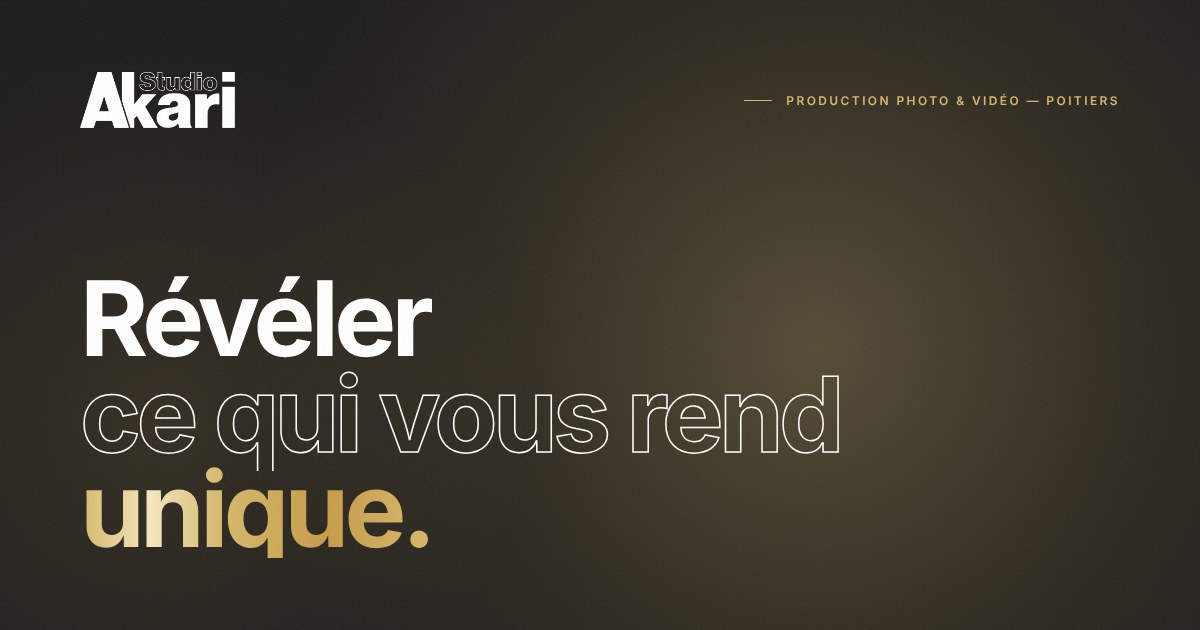
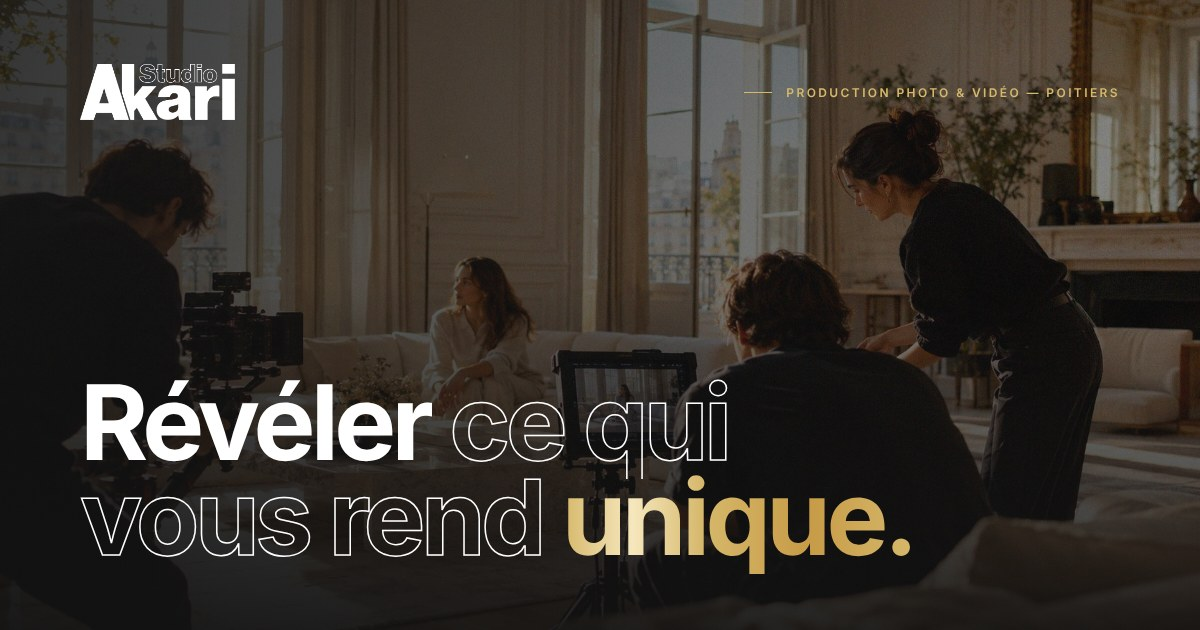
Photo de tournage en plein écran et 5 nouvelles photos dans la galerie
- Accueil : la photo de l'équipe de tournage passe en fond plein écran
  derrière « Révéler ce qui vous rend unique » (variante « Plein écran »
  de la maquette), avec voile sombre pour la lisibilité, carte vitrée
  et indicateur « Défiler » ; cadrage dédié au mobile
- Galerie Clients : salon (Immobilier), portrait recadré (Portrait),
  vue aérienne (Drone), film d'entreprise (Entreprise), réception
  (Événementiel) ; crédits Unsplash retirés
- Image de partage réseaux sociaux refaite avec la photo de tournage
- README : emplacement de chaque photo

Claude-Session: https://claude.ai/code/session_01Rce9ABYD3shJkcZ2GECvxT

diff --git a/clients.html b/clients.html
@@ -227,48 +227,46 @@
       <div class="container pad-bottom gallery">
         <figure class="media gallery__item gallery__item--wide gallery__item--tall" data-cat="immo" data-reveal="clip" data-delay="0">
           <div class="scene" data-scene="window" data-flip aria-hidden="true"></div>
-          <img src="https://images.unsplash.com/photo-1635108199650-8115b597e283?auto=format&amp;fit=crop&amp;w=1600&amp;q=75"
-               srcset="https://images.unsplash.com/photo-1635108199650-8115b597e283?auto=format&amp;fit=crop&amp;w=800&amp;q=75 800w,
-                       https://images.unsplash.com/photo-1635108199650-8115b597e283?auto=format&amp;fit=crop&amp;w=1600&amp;q=75 1600w"
-               sizes="(min-width: 1280px) 750px, 100vw" alt="Réalisation immobilier : intérieur mis en valeur" loading="lazy" decoding="async">
+          <img src="assets/img/photos/interieur-salon-1200.jpg"
+               srcset="assets/img/photos/interieur-salon-800.jpg 800w,
+                       assets/img/photos/interieur-salon-1200.jpg 1200w,
+                       assets/img/photos/interieur-salon-1672.jpg 1672w"
+               sizes="(min-width: 1280px) 750px, 100vw" width="1672" height="941" alt="Salon haussmannien baigné de lumière : canapé d'angle, table basse en marbre et cheminée" loading="lazy" decoding="async" style="--pos: 50% 60%">
           <span class="tag">Immobilier</span>
-          <figcaption class="credit">Photo de <a href="https://unsplash.com/@3dottawa?utm_source=studio_akari&amp;utm_medium=referral" target="_blank" rel="noopener">Point3D Commercial Imaging Ltd.</a> sur <a href="https://unsplash.com/?utm_source=studio_akari&amp;utm_medium=referral" target="_blank" rel="noopener">Unsplash</a></figcaption>
         </figure>
         <figure class="media gallery__item gallery__item--tall" data-cat="ent" data-reveal="clip" data-delay="150">
           <div class="scene" data-scene="rim" aria-hidden="true"></div>
-          <img src="https://images.unsplash.com/photo-1573497019940-1c28c88b4f3e?auto=format&amp;fit=crop&amp;w=1200&amp;q=75"
-               srcset="https://images.unsplash.com/photo-1573497019940-1c28c88b4f3e?auto=format&amp;fit=crop&amp;w=600&amp;q=75 600w,
-                       https://images.unsplash.com/photo-1573497019940-1c28c88b4f3e?auto=format&amp;fit=crop&amp;w=1200&amp;q=75 1200w"
-               sizes="(min-width: 1280px) 375px, 100vw" alt="Réalisation : portrait corporate" loading="lazy" decoding="async">
+          <img src="assets/img/photos/portrait-bureau-706.jpg"
+               srcset="assets/img/photos/portrait-bureau-600.jpg 600w,
+                       assets/img/photos/portrait-bureau-706.jpg 706w"
+               sizes="(min-width: 1280px) 375px, 100vw" width="706" height="941" alt="Portrait professionnel d'une femme en tailleur blanc, accoudée à son bureau" loading="lazy" decoding="async" style="--pos: 50% 25%">
           <span class="tag">Portrait</span>
-          <figcaption class="credit">Photo de <a href="https://unsplash.com/@wocintechchat?utm_source=studio_akari&amp;utm_medium=referral" target="_blank" rel="noopener">Christina @ wocintechchat.com M</a> sur <a href="https://unsplash.com/?utm_source=studio_akari&amp;utm_medium=referral" target="_blank" rel="noopener">Unsplash</a></figcaption>
         </figure>
         <figure class="media gallery__item gallery__item--short" data-cat="immo" data-reveal="clip" data-delay="0">
           <div class="scene" data-scene="aerial" aria-hidden="true"></div>
-          <img src="https://images.unsplash.com/photo-1525345819937-fffe0634612e?auto=format&amp;fit=crop&amp;w=1200&amp;q=75"
-               srcset="https://images.unsplash.com/photo-1525345819937-fffe0634612e?auto=format&amp;fit=crop&amp;w=600&amp;q=75 600w,
-                       https://images.unsplash.com/photo-1525345819937-fffe0634612e?auto=format&amp;fit=crop&amp;w=1200&amp;q=75 1200w"
-               sizes="(min-width: 1280px) 375px, 100vw" alt="Réalisation : vue aérienne par drone" loading="lazy" decoding="async">
+          <img src="assets/img/photos/drone-demeure-1200.jpg"
+               srcset="assets/img/photos/drone-demeure-800.jpg 800w,
+                       assets/img/photos/drone-demeure-1200.jpg 1200w,
+                       assets/img/photos/drone-demeure-1672.jpg 1672w"
+               sizes="(min-width: 1280px) 720px, 150vw" width="1672" height="941" alt="Vue aérienne par drone d'une demeure de prestige et de son jardin au coucher du soleil" loading="lazy" decoding="async" style="--pos: 92% 50%">
           <span class="tag">Drone</span>
-          <figcaption class="credit">Photo de <a href="https://unsplash.com/@chuttersnap?utm_source=studio_akari&amp;utm_medium=referral" target="_blank" rel="noopener">CHUTTERSNAP</a> sur <a href="https://unsplash.com/?utm_source=studio_akari&amp;utm_medium=referral" target="_blank" rel="noopener">Unsplash</a></figcaption>
         </figure>
         <figure class="media gallery__item gallery__item--wide gallery__item--short" data-cat="ent" data-reveal="clip" data-delay="150">
           <div class="scene" data-scene="flare" data-letterbox aria-hidden="true"></div>
-          <img src="https://images.unsplash.com/photo-1637249786345-a064129dd0d2?auto=format&amp;fit=crop&amp;w=1600&amp;q=75"
-               srcset="https://images.unsplash.com/photo-1637249786345-a064129dd0d2?auto=format&amp;fit=crop&amp;w=800&amp;q=75 800w,
-                       https://images.unsplash.com/photo-1637249786345-a064129dd0d2?auto=format&amp;fit=crop&amp;w=1600&amp;q=75 1600w"
-               sizes="(min-width: 1280px) 750px, 100vw" alt="Réalisation : film d'entreprise" loading="lazy" decoding="async">
+          <img src="assets/img/photos/film-entreprise-1200.jpg"
+               srcset="assets/img/photos/film-entreprise-800.jpg 800w,
+                       assets/img/photos/film-entreprise-1200.jpg 1200w,
+                       assets/img/photos/film-entreprise-1672.jpg 1672w"
+               sizes="(min-width: 1280px) 750px, 100vw" width="1672" height="941" alt="Tournage d'un film d'entreprise : deux caméras filment une séance de travail autour d'une grande table" loading="lazy" decoding="async">
           <span class="tag">Entreprise</span>
-          <figcaption class="credit">Photo de <a href="https://unsplash.com/@jakobowens1?utm_source=studio_akari&amp;utm_medium=referral" target="_blank" rel="noopener">Jakob Owens</a> sur <a href="https://unsplash.com/?utm_source=studio_akari&amp;utm_medium=referral" target="_blank" rel="noopener">Unsplash</a></figcaption>
         </figure>
         <figure class="media gallery__item gallery__item--half gallery__item--short" data-cat="ent" data-reveal="clip" data-delay="0">
           <div class="scene" data-scene="bokeh" data-seed="29" data-n="16" aria-hidden="true"></div>
-          <img src="https://images.unsplash.com/photo-1664817559603-3831ba34c112?auto=format&amp;fit=crop&amp;w=1400&amp;q=75"
-               srcset="https://images.unsplash.com/photo-1664817559603-3831ba34c112?auto=format&amp;fit=crop&amp;w=700&amp;q=75 700w,
-                       https://images.unsplash.com/photo-1664817559603-3831ba34c112?auto=format&amp;fit=crop&amp;w=1400&amp;q=75 1400w"
-               sizes="(min-width: 1280px) 560px, 100vw" alt="Réalisation : événement" loading="lazy" decoding="async">
+          <img src="assets/img/photos/evenement-reception-1200.jpg"
+               srcset="assets/img/photos/evenement-reception-800.jpg 800w,
+                       assets/img/photos/evenement-reception-1200.jpg 1200w"
+               sizes="(min-width: 1280px) 560px, 100vw" width="1672" height="941" alt="Captation vidéo d'une réception dans un salon d'apparat" loading="lazy" decoding="async" style="--pos: 40% 50%">
           <span class="tag">Événementiel</span>
-          <figcaption class="credit">Photo de <a href="https://unsplash.com/@isaacmacdonald?utm_source=studio_akari&amp;utm_medium=referral" target="_blank" rel="noopener">isaac macdonald</a> sur <a href="https://unsplash.com/?utm_source=studio_akari&amp;utm_medium=referral" target="_blank" rel="noopener">Unsplash</a></figcaption>
         </figure>
         <figure class="media gallery__item gallery__item--half gallery__item--short" data-cat="ent" data-reveal="clip" data-delay="150">
           <div class="scene" data-scene="spot" aria-hidden="true"></div>

diff --git a/index.html b/index.html
@@ -81,37 +81,37 @@
   </header>
 
   <main id="contenu">
-    <!-- 01 Accueil -->
-    <section class="hero" data-spotlight>
-      <div class="glows glows--hero" aria-hidden="true"><span></span><span></span></div>
+    <!-- 01 Accueil : photo plein écran derrière le titre -->
+    <section class="hero hero--full" data-spotlight>
+      <figure class="media hero__bg">
+        <div class="scene" data-scene="beam" aria-hidden="true"></div>
+        <img src="assets/img/photos/tournage-equipe-1200.jpg"
+             srcset="assets/img/photos/tournage-equipe-800.jpg 800w,
+                     assets/img/photos/tournage-equipe-1200.jpg 1200w,
+                     assets/img/photos/tournage-equipe-1672.jpg 1672w"
+             sizes="(max-aspect-ratio: 4/3) 1672px, 100vw" width="1672" height="941" alt="Équipe de tournage filmant une scène dans un appartement haussmannien baigné de lumière" fetchpriority="high" style="--pos: 45% 40%; --pos-sm: 38% 50%">
+      </figure>
       <div class="spotlight" aria-hidden="true"></div>
-      <div class="container hero__inner">
-        <div class="hero__top" data-reveal="fade">
-          <span class="eyebrow"><span class="eyebrow-line" data-reveal="line" data-delay="200"></span>Production photo &amp; vidéo</span>
-          <span class="hero__area">Poitiers et ses alentours</span>
-        </div>
-        <h1 class="display display--hero">
-          <span class="line"><span data-reveal="rise" data-delay="120">Révéler</span></span>
-          <span class="line"><span class="outline" data-reveal="rise" data-delay="240">ce qui vous rend</span></span>
-          <span class="line"><span class="shimmer" data-reveal="rise" data-delay="360">unique.</span></span>
+      <div class="hero__shade" aria-hidden="true"></div>
+      <div class="container hero__content">
+        <div class="eyebrow hero__eyebrow" data-reveal="fade"><span class="eyebrow-line" data-reveal="line" data-delay="200"></span>Production photo &amp; vidéo — Poitiers</div>
+        <h1 class="display display--full">
+          <span class="line"><span data-reveal="rise" data-delay="120">Révéler <span class="outline">ce qui</span></span></span>
+          <span class="line"><span data-reveal="rise" data-delay="260"><span class="outline">vous rend</span> <span class="shimmer">unique.</span></span></span>
         </h1>
-        <div class="head-foot">
-          <p class="lead hero__lead" data-reveal="up" data-delay="520">Studio Akari conçoit et réalise des photos et des vidéos professionnelles pour les agents immobiliers, les PME et les entreprises de tous secteurs, à Poitiers et dans ses alentours.</p>
-          <div class="btn-row" data-reveal="up" data-delay="640">
-            <a class="btn btn--gold" href="formules.html#contact">Demander un devis</a>
-            <a class="btn btn--ghost" href="#prestations">Nos prestations</a>
+        <div class="hero__row">
+          <div class="scroll-cue" data-reveal="fade" data-delay="900" aria-hidden="true">
+            <span class="scroll-cue__track"><span class="scroll-cue__bar"></span></span>
+            <span>Défiler</span>
+          </div>
+          <div class="hero__card" data-reveal="up" data-delay="520">
+            <p>Studio Akari conçoit et réalise des photos et des vidéos professionnelles pour les agents immobiliers, les PME et les entreprises de tous secteurs, à Poitiers et dans ses alentours.</p>
+            <div class="btn-row">
+              <a class="btn btn--gold" href="formules.html#contact">Demander un devis</a>
+              <a class="btn btn--ghost" href="#prestations">Nos prestations</a>
+            </div>
           </div>
         </div>
-      </div>
-      <div class="container hero__media">
-        <figure class="media media--hero" data-reveal="clip" data-delay="300">
-          <div class="scene" data-scene="beam" aria-hidden="true"></div>
-          <img src="assets/img/photos/tournage-equipe-1200.jpg"
-               srcset="assets/img/photos/tournage-equipe-800.jpg 800w,
-                       assets/img/photos/tournage-equipe-1200.jpg 1200w,
-                       assets/img/photos/tournage-equipe-1672.jpg 1672w"
-               sizes="(min-width: 1280px) 1136px, 100vw" width="1672" height="941" alt="Équipe de tournage filmant une scène dans un appartement haussmannien baigné de lumière" fetchpriority="high" style="--pos: 50% 40%">
-        </figure>
       </div>
     </section>
 

diff --git a/assets/css/style.css b/assets/css/style.css
@@ -309,7 +309,6 @@ a:hover { color: var(--gold); }
   font-family: var(--font-display);
   font-weight: 700;
 }
-.display--hero { font-size: clamp(56px, 9.6vw, 152px); line-height: 0.92; letter-spacing: -0.045em; }
 .display--page { font-size: clamp(48px, 7vw, 112px); line-height: 0.94; letter-spacing: -0.045em; }
 .display--section { font-size: clamp(44px, 5.8vw, 88px); line-height: 0.96; letter-spacing: -0.04em; }
 
@@ -482,6 +481,10 @@ a:hover { color: var(--gold); }
   transition: opacity .6s ease;
 }
 .js .media > img:not(.is-loaded) { opacity: 0; }
+/* Cadrage propre aux petits écrans : --pos-sm dans l'attribut style de l'image */
+@media (max-width: 699.98px) {
+  .media > img { object-position: var(--pos-sm, var(--pos, 50% 50%)); }
+}
 /* Le crédit n'apparaît qu'avec la photo qu'il attribue */
 .js .media > img:not(.is-loaded) ~ .credit { display: none; }
 .media > .scene { position: absolute; inset: 0; }
@@ -545,27 +548,81 @@ a:hover { color: var(--gold); }
   align-items: end;
 }
 
-/* ---------- Accueil : hero ---------- */
+/* ---------- Accueil : hero plein écran ---------- */
 
 .hero { position: relative; overflow: hidden; border-bottom: 1px solid var(--line); }
-.hero__inner { padding-top: clamp(72px, 8vw, 120px); padding-bottom: clamp(48px, 5vw, 72px); }
-.hero__top {
+.hero--full {
+  min-height: max(660px, calc(100vh - var(--header-h)));
+  min-height: max(660px, calc(100svh - var(--header-h)));
   display: flex;
-  justify-content: space-between;
-  flex-wrap: wrap;
-  gap: 12px 24px;
-  font-family: var(--font-display);
-  font-size: 12px;
-  font-weight: 600;
-  letter-spacing: 0.2em;
-  text-transform: uppercase;
-  margin-bottom: clamp(40px, 5vw, 64px);
+  align-items: flex-end;
+  background: var(--ink-deep);
 }
-.hero__area { color: var(--muted); }
-.hero__lead { max-width: 540px; }
+.hero__bg { position: absolute; inset: 0; background: var(--ink-deep); }
+
+/* Assombrit la photo pour garder le titre lisible (texte aligné à gauche, bas de page plus dense) */
+.hero__shade {
+  position: absolute;
+  inset: 0;
+  pointer-events: none;
+  background:
+    linear-gradient(90deg, rgba(18, 18, 18, 0.6) 0%, rgba(18, 18, 18, 0.2) 55%, rgba(18, 18, 18, 0) 100%),
+    linear-gradient(180deg, rgba(18, 18, 18, 0.35) 0%, rgba(18, 18, 18, 0.45) 45%, rgba(18, 18, 18, 0.94) 100%);
+}
+
+.hero__content {
+  width: 100%;
+  padding-top: 160px;
+  padding-bottom: clamp(40px, 5vw, 64px);
+  pointer-events: none;
+}
+.hero__eyebrow { margin-bottom: 28px; }
+.display--full { font-size: clamp(52px, 8.6vw, 136px); line-height: 0.92; letter-spacing: -0.045em; }
+
+.hero__row {
+  margin-top: clamp(40px, 5vw, 64px);
+  display: flex;
+  flex-wrap: wrap;
+  justify-content: space-between;
+  align-items: flex-end;
+  gap: 32px;
+}
+
+.scroll-cue {
+  display: flex;
+  align-items: center;
+  gap: 14px;
+  font-family: var(--font-display);
+  font-size: 11px;
+  font-weight: 600;
+  letter-spacing: 0.18em;
+  text-transform: uppercase;
+  color: var(--muted);
+}
+.scroll-cue__track { position: relative; width: 1px; height: 56px; background: rgba(255, 255, 255, 0.2); overflow: hidden; }
+.scroll-cue__bar {
+  position: absolute;
+  left: 0; top: 0;
+  width: 1px; height: 50%;
+  background: var(--gold);
+  animation: akariScrollcue 2.2s cubic-bezier(.6, 0, .2, 1) infinite;
+}
+@keyframes akariScrollcue { from { transform: translateY(-100%); } to { transform: translateY(200%); } }
+
+.hero__card {
+  pointer-events: auto;
+  flex: 0 1 560px;
+  padding: clamp(28px, 3.2vw, 44px);
+  background: rgba(20, 20, 20, 0.35);
+  -webkit-backdrop-filter: blur(20px) saturate(140%);
+  backdrop-filter: blur(20px) saturate(140%);
+  border: 1px solid rgba(255, 255, 255, 0.12);
+}
+.hero__card p { margin: 0; font-size: clamp(17px, 1.35vw, 19px); line-height: 1.65; color: #E4DFD6; text-wrap: pretty; }
+.hero__card .btn-row { margin-top: 24px; }
+
+/* Marge basse des bandeaux image pleine largeur (page Clients) */
 .hero__media { padding-bottom: clamp(72px, 8vw, 120px); }
-/* largeur explicite : sans elle, la hauteur minimale élargit l'image au-delà de l'écran sur mobile */
-.media--hero { width: 100%; aspect-ratio: 21 / 9; min-height: 260px; background: var(--ink-deep); }
 
 /* ---------- Bandeau défilant ---------- */
 

diff --git a/README.md b/README.md
@@ -33,7 +33,7 @@ Le site est prêt à être mis en ligne : mentions légales complètes (d'après
 
 Plus tard, quand vous le souhaiterez :
 
-- remplacer les six photos d'illustration Unsplash de la galerie par vos réalisations ;
+- remplacer la dernière photo d'illustration Unsplash (galerie, « Produit ») par une réalisation ;
 - ajouter vos réseaux sociaux dans le pied de page (une colonne « Suivre » est prévue par la maquette) ;
 - afficher des tarifs (aujourd'hui toutes les offres sont « Sur devis »).
 
@@ -99,13 +99,18 @@ Les photos de Studio Akari sont dans `assets/img/photos/`, déclinées en plusie
 
 | Emplacement | Fichiers |
 | --- | --- |
-| Accueil — grande image sous le titre | `tournage-equipe-*.jpg` |
+| Accueil — photo plein écran derrière « Révéler ce qui vous rend unique » | `tournage-equipe-*.jpg` |
 | Accueil — « Le studio » (format portrait) | `coulisses-preparation-*.jpg` |
 | Accueil — carte « Production vidéo » | `tournage-interview-*.jpg` |
 | Accueil — carte « Reportage photo » | `reportage-interieur-*.jpg` |
 | Clients — bandeau « L'immobilier, notre terrain d'expertise » | `presentation-clients-*.jpg` |
+| Clients — galerie « Immobilier » | `interieur-salon-*.jpg` |
+| Clients — galerie « Portrait » | `portrait-bureau-*.jpg` |
+| Clients — galerie « Drone » | `drone-demeure-*.jpg` |
+| Clients — galerie « Entreprise » | `film-entreprise-*.jpg` |
+| Clients — galerie « Événementiel » | `evenement-reception-*.jpg` |
 
-Les six images de la galerie « Réalisations » (page Clients) sont encore des illustrations Unsplash, avec le nom de leur auteur affiché en bas à gauche.
+La dernière image de la galerie (« Produit ») est encore une illustration Unsplash, avec le nom de son auteur affiché en bas à gauche.
 
 Pour changer une photo :
 
